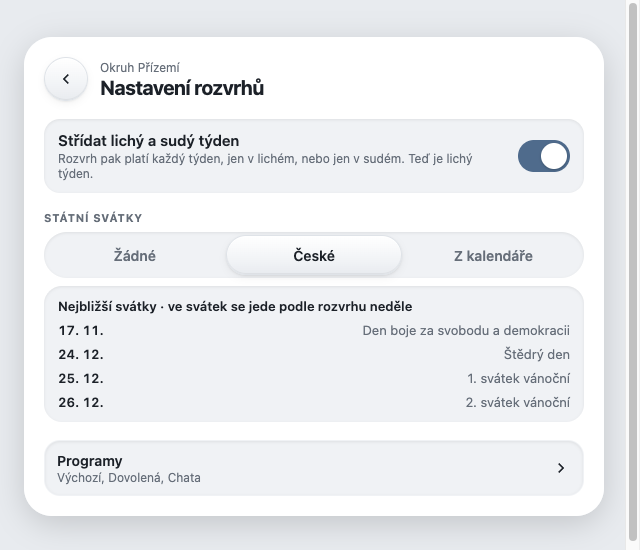
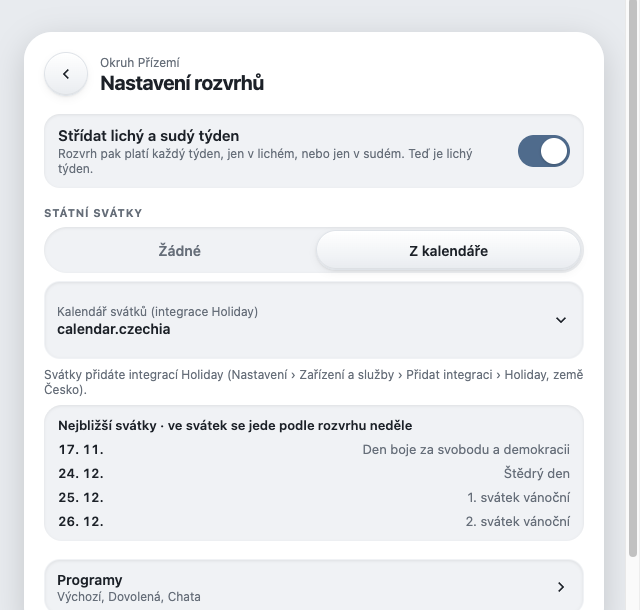
heating-schedule-card: holidays only from the Holiday calendar (v0.2.1) (#8)
* heating-schedule-card: holidays only from the Holiday calendar (v0.2.1)

Claude-Session: https://claude.ai/code/session_01RVUxo8sn9nGTvcQLdZcLhj

* heating-schedule-card: review fixes (one default-calendar write, ordered writes, active tab, memo)

Claude-Session: https://claude.ai/code/session_01RVUxo8sn9nGTvcQLdZcLhj

---------

diff --git a/dist/heating-schedule-card.js b/dist/heating-schedule-card.js
@@ -1,6 +1,8 @@
 // heating-schedule-card: weekly heating schedules of climate valves, stored by scheduler-component.
 // One plain ES module: no build step, no dependencies. Pure functions are exported for `node --test`.
-const VERSION = '0.2.0';
+const VERSION = '0.2.1';
+const isCal = (v) => typeof v === 'string' && v.startsWith('calendar.');
+const CZ_CALENDAR = 'calendar.czechia'; // the calendar the Holiday integration creates for Czechia
 
 export const DAYS = ['mon', 'tue', 'wed', 'thu', 'fri', 'sat', 'sun'];
 const DAY_LABELS = { mon: 'Po', tue: 'Út', wed: 'St', thu: 'Čt', fri: 'Pá', sat: 'So', sun: 'Ne' };
@@ -46,7 +48,7 @@ export function tempColor(t, dark = false) {
   return '#' + a.map((v, k) => Math.round(v + (b[k] - v) * f).toString(16).toUpperCase().padStart(2, '0')).join('');
 }
 
-// ---------- weeks and holidays (the same rules as heating's `heating_week_parity`, `heating_cz_holidays`) ----------
+// ---------- weeks and holidays (the same rules as heating's `heating_week_parity`, `heating_holidays`) ----------
 
 /**
  * 'odd' | 'even' week of `date`: a strict every-7-days alternation counted from Monday 2025-12-29 (= odd), exactly as
@@ -65,29 +67,11 @@ export function isoWeek(date) {
   return 1 + Math.round(((d - jan4) / 864e5 - 3 + ((jan4.getUTCDay() + 6) % 7)) / 7);
 }
 
-const CZ_FIXED = [['01-01', 'Den obnovy samostatného českého státu'], ['05-01', 'Svátek práce'], ['05-08', 'Den vítězství'],
-  ['07-05', 'Den slovanských věrozvěstů Cyrila a Metoděje'], ['07-06', 'Den upálení mistra Jana Husa'], ['09-28', 'Den české státnosti'],
-  ['10-28', 'Den vzniku samostatného československého státu'], ['11-17', 'Den boje za svobodu a demokracii'], ['12-24', 'Štědrý den'],
-  ['12-25', '1. svátek vánoční'], ['12-26', '2. svátek vánoční']];
-
-/** Czech public holidays of `year` -> [{date: 'YYYY-MM-DD', name}] by date: the list of heating's `heating_cz_holidays`. */
-export function czechHolidays(year) {
-  const a = year % 19, b = Math.floor(year / 100), c = year % 100, d = Math.floor(b / 4), e = b % 4, f = Math.floor((b + 8) / 25);
-  const g = Math.floor((b - f + 1) / 3), h = (19 * a + b - d - g + 15) % 30, i = Math.floor(c / 4), k = c % 4;
-  const l = (32 + 2 * e + 2 * i - h - k) % 7, m = Math.floor((a + 11 * h + 22 * l) / 451);
-  const month = Math.floor((h + l - 7 * m + 114) / 31), day = ((h + l - 7 * m + 114) % 31) + 1; // Easter Sunday
-  const easter = (off) => ymd(new Date(year, month - 1, day + off));
-  return [{ date: easter(-2), name: 'Velký pátek' }, { date: easter(1), name: 'Velikonoční pondělí' },
-    ...CZ_FIXED.map(([md, name]) => ({ date: `${year}-${md}`, name }))].sort((x, y) => (x.date < y.date ? -1 : 1));
-}
-
-/** The circuit's public holidays as a Set of 'YYYY-MM-DD' (heating's `heating_holidays`): `cz` built in (last, this and next year), `calendar` = the imported dates. */
-export function holidayDates(states, id, now = new Date()) {
-  const mode = states?.[`input_select.heating_holidays_${id}`]?.state;
-  if (mode === 'cz') return new Set([-1, 0, 1].flatMap((o) => czechHolidays(now.getFullYear() + o)).map((h) => h.date));
-  if (mode !== 'calendar') return new Set();
-  const dates = states?.[`sensor.heating_programs_${id}`]?.attributes?.holiday_dates;
-  return new Set((Array.isArray(dates) ? dates : []).filter((d) => typeof d === 'string' && /^\d{4}-\d\d-\d\d$/.test(d)));
+/** The circuit's public holidays as a Set of 'YYYY-MM-DD' (heating's `heating_holidays`): only mode `calendar`, the dates of `sensor.heating_programs_<circuit>` attribute `holidays` ([{date, name}]). */
+export function holidayDates(states, id) {
+  if (states?.[`input_select.heating_holidays_${id}`]?.state !== 'calendar') return new Set();
+  const list = states?.[`sensor.heating_programs_${id}`]?.attributes?.holidays;
+  return new Set((Array.isArray(list) ? list : []).map((h) => h?.date).filter((d) => typeof d === 'string' && /^\d{4}-\d\d-\d\d$/.test(d)));
 }
 
 /** Another schedule's week tag overlaps this one: no tag (every week) overlaps both, `odd` and `even` never. */
@@ -813,7 +797,6 @@ class HeatingScheduleCard extends (globalThis.HTMLElement ?? class {}) {
     this._seq = 0;
     this._view = 'week'; // 'week' | 'picker' | 'editor' | 'copy' | 'programs' | 'settings'
     this._pg = null; // programs view state while view is 'programs'
-    this._calNames = new Map(); // calendar entity -> {date: event title}, fetched best effort for the holiday list
     this._copy = null; // copy view state while view is 'copy'
     this._ed = null; // editor state while view is 'editor'
     this._pick = null; // valve picker state while view is 'picker'
@@ -981,13 +964,13 @@ class HeatingScheduleCard extends (globalThis.HTMLElement ?? class {}) {
   _circuit() { return this._cfg.circuits.find((c) => c.id === this._cfg.valveCircuit[this._valve]); }
 
   /** The holidays the heating rules use for this circuit: `{holidays: Set}`. */
-  _ctx(circuit = this._circuit(), now = new Date()) {
-    // rebuilt only when the circuit, the mode, the year or the imported dates (by reference) change, not on every render
-    const st = this._hass?.states, mode = st?.[`input_select.heating_holidays_${circuit.id}`]?.state, dates = st?.[`sensor.heating_programs_${circuit.id}`]?.attributes?.holiday_dates;
-    const m = this._holMemo?.get(circuit.id), year = now.getFullYear();
-    if (m && m.mode === mode && m.year === year && m.dates === dates) return { holidays: m.set };
-    const set = holidayDates(st, circuit.id, now);
-    (this._holMemo ??= new Map()).set(circuit.id, { mode, year, dates, set });
+  _ctx(circuit = this._circuit()) {
+    // rebuilt only when the circuit, the mode or the holidays (by reference) change, not on every render
+    const st = this._hass?.states, mode = st?.[`input_select.heating_holidays_${circuit.id}`]?.state, dates = st?.[`sensor.heating_programs_${circuit.id}`]?.attributes?.holidays;
+    const m = this._holMemo?.get(circuit.id);
+    if (m && m.mode === mode && m.dates === dates) return { holidays: m.set };
+    const set = holidayDates(st, circuit.id);
+    (this._holMemo ??= new Map()).set(circuit.id, { mode, dates, set });
     return { holidays: set };
   }
 
@@ -1011,7 +994,7 @@ class HeatingScheduleCard extends (globalThis.HTMLElement ?? class {}) {
       s(`sensor.heating_applying_${id}`), a(`sensor.heating_applying_${id}`, 'left'),
       a(`sensor.heating_schedule_${id}`, 'targets'), a(`sensor.heating_schedule_${id}`, 'holidays_next'),
       s(`input_boolean.heating_week_alternation_${id}`), s(`input_select.heating_holidays_${id}`), s(`input_text.heating_holiday_calendar_${id}`),
-      a(`sensor.heating_programs_${id}`, 'programs'), a(`sensor.heating_programs_${id}`, 'holiday_dates'), a(`sensor.heating_programs_${id}`, 'holiday_error'),
+      a(`sensor.heating_programs_${id}`, 'programs'), a(`sensor.heating_programs_${id}`, 'holidays'), a(`sensor.heating_programs_${id}`, 'holiday_error'),
       this._view === 'settings' ? Object.keys(st).filter((e) => e.startsWith('calendar.')) : null,
     ]);
   }
@@ -1032,7 +1015,7 @@ class HeatingScheduleCard extends (globalThis.HTMLElement ?? class {}) {
       const ev = new CustomEvent('hsc-edit', { bubbles: true, composed: true, cancelable: true, detail: { valve: this._valve, program: this._prog, schedule: id ? this._schedules.find((s) => s.id === id) : null } });
       if (this.dispatchEvent(ev)) this._onEdit(ev);
     } else if (a === 'copyOpen') this._announceCopy({ valve: this._valve, program: this._prog, schedule: null });
-    else if (a === 'cog') { this._view = 'settings'; this._fetchCalNames(); this._render(true); }
+    else if (a === 'cog') { this._view = 'settings'; this._render(true); }
     else if (a === 'addprog') this._openPrograms('week');
     else if (a.startsWith('pg-')) this._progAction(a, el.dataset.k);
     else if (a.startsWith('st-')) this._settingsAction(a, el.dataset.k);
@@ -1613,50 +1596,41 @@ class HeatingScheduleCard extends (globalThis.HTMLElement ?? class {}) {
 
   // ---------- settings ----------
 
-  /** Titles of a calendar's events by date (calendar.get_events), best effort: a failure leaves the holiday names blank. */
-  async _fetchCalNames(entity) {
-    const c = this._circuit(), st = this._hass?.states ?? {};
-    const ent = entity ?? st[`input_text.heating_holiday_calendar_${c?.id}`]?.state;
-    if (!c || typeof ent !== 'string' || !ent.startsWith('calendar.') || this._calNames.has(ent)) return;
-    this._calNames.set(ent, {});
-    try {
-      const from = new Date(), to = new Date(from.getFullYear() + 1, from.getMonth(), from.getDate());
-      const r = await this._hass.callWS({ type: 'call_service', domain: 'calendar', service: 'get_events', return_response: true,
-        service_data: { entity_id: ent, start_date_time: `${ymd(from)} 00:00:00`, end_date_time: `${ymd(to)} 00:00:00` } });
-      const names = {};
-      for (const ev of r?.response?.[ent]?.events ?? []) if (ev.summary) names[String(ev.start).slice(0, 10)] ??= ev.summary;
-      this._calNames.set(ent, names);
-      if (this._view === 'settings') this._render();
-    } catch { this._calNames.delete(ent); }
-  }
-
   _settingsAction(a, k) {
     const c = this._circuit(), id = c.id;
     const call = (domain, service, data) => Promise.resolve().then(() => this._hass.callService(domain, service, data)).catch((err) => this._fail(err));
     if (a === 'st-back') { this._view = 'week'; this._render(true); }
     else if (a === 'st-prog') this._openPrograms('settings');
     else if (a === 'st-alt') call('input_boolean', 'toggle', { entity_id: `input_boolean.heating_week_alternation_${id}` });
-    else if (a === 'st-hol') call('input_select', 'select_option', { entity_id: `input_select.heating_holidays_${id}`, option: k }).then(() => k === 'calendar' && this._fetchCalNames());
-    else if (a === 'st-cal') call('input_text', 'set_value', { entity_id: `input_text.heating_holiday_calendar_${id}`, value: k }).then(() => this._fetchCalNames(k));
+    else if (a === 'st-hol') {
+      const st = this._hass.states, calEnt = `input_text.heating_holiday_calendar_${id}`, cur = st[calEnt]?.state;
+      if (k === (st[`input_select.heating_holidays_${id}`]?.state === 'calendar' ? 'calendar' : 'none')) return; // the active tab
+      const select = () => call('input_select', 'select_option', { entity_id: `input_select.heating_holidays_${id}`, option: k });
+      if (k !== 'calendar') return select();
+      if (!st[calEnt]) return this._fail(new Error('Heating je starší, aktualizujte ho'));
+      // the only place that writes the default: nothing valid stored and the Holiday integration's Czechia calendar exists
+      if (isCal(cur) || !st[CZ_CALENDAR]) return select();
+      Promise.resolve().then(() => this._hass.callService('input_text', 'set_value', { entity_id: calEnt, value: CZ_CALENDAR })).then(select).catch((err) => this._fail(err));
+    }
+    else if (a === 'st-cal') call('input_text', 'set_value', { entity_id: `input_text.heating_holiday_calendar_${id}`, value: k });
   }
 
   _settingsHtml(circuit, errHtml) {
     const id = circuit.id, st = this._hass?.states ?? {}, att = (e, a) => st[e]?.attributes?.[a];
-    const alt = this._alternates(circuit), mode = st[`input_select.heating_holidays_${id}`]?.state ?? 'none';
-    const cal = st[`input_text.heating_holiday_calendar_${id}`]?.state ?? '';
+    const alt = this._alternates(circuit), mode = st[`input_select.heating_holidays_${id}`]?.state === 'calendar' ? 'calendar' : 'none'; // anything else shows as Žádné
+    const stored = st[`input_text.heating_holiday_calendar_${id}`]?.state, cal = isCal(stored) ? stored : ''; // only the stored value is shown
     const parity = weekParity(new Date());
     const calendars = Object.keys(st).filter((e) => e.startsWith('calendar.'));
     if (cal && !calendars.includes(cal)) calendars.unshift(cal);
-    const names = this._calNames.get(cal) ?? {};
     const next = (Array.isArray(att(`sensor.heating_schedule_${id}`, 'holidays_next')) ? att(`sensor.heating_schedule_${id}`, 'holidays_next') : []);
     const fmt = (iso) => `${Number(String(iso).slice(8, 10))}. ${Number(String(iso).slice(5, 7))}.`;
     const tab = (k, label) => `<button type="button" class="tab" data-a="st-hol" data-k="${k}" aria-pressed="${mode === k}" ${st[`input_select.heating_holidays_${id}`] ? '' : 'disabled'}>${label}</button>`;
     const err = mode === 'calendar' ? att(`sensor.heating_programs_${id}`, 'holiday_error') : null;
-    const picker = mode === 'calendar' ? `<label class="tile sel"><span class="tx"><span class="sec">Kalendář svátků (integrace Holiday)</span><b>${esc(cal || 'Vyber kalendář')}</b></span>${icon('chevronDown')}
-        <select data-a="st-cal" aria-label="Kalendář svátků"><option value=""${cal ? '' : ' selected'}>Vyber kalendář</option>${calendars.map((e) => `<option value="${esc(e)}"${e === cal ? ' selected' : ''}>${esc(e)}</option>`).join('')}</select></label>
-        <span class="sec">Kalendář přidáte integrací Holiday (Nastavení › Zařízení a služby › Přidat integraci › Holiday).</span>${err ? `<div class="err">Kalendář se nenačetl: ${esc(err)}</div>` : ''}` : '';
+    const picker = mode === 'calendar' ? `<label class="tile sel"><span class="tx"><span class="sec">Kalendář svátků (integrace Holiday)</span><b>${esc(cal || 'Vyberte kalendář')}</b></span>${icon('chevronDown')}
+        <select data-a="st-cal" aria-label="Kalendář svátků"><option value=""${cal ? '' : ' selected'}>Vyberte kalendář</option>${calendars.map((e) => `<option value="${esc(e)}"${e === cal ? ' selected' : ''}>${esc(e)}</option>`).join('')}</select></label>
+        <span class="sec">Svátky přidáte integrací Holiday (Nastavení › Zařízení a služby › Přidat integraci › Holiday, země Česko).</span>${err ? `<div class="err">Kalendář se nenačetl: ${esc(err)}</div>` : ''}` : '';
     const hols = mode === 'none' ? '' : `<div class="hols"><b>Nejbližší svátky · ve svátek se jede podle rozvrhu neděle</b>${next.length
-      ? next.map((h) => `<div class="h"><span>${esc(fmt(h.date))}</span><span>${esc(h.name ?? names[h.date] ?? '')}</span></div>`).join('') : '<span class="sec">Žádné nadcházející svátky.</span>'}</div>`;
+      ? next.map((h) => `<div class="h"><span>${esc(fmt(h.date))}</span><span>${esc(h.name ?? '')}</span></div>`).join('') : '<span class="sec">Žádné nadcházející svátky.</span>'}</div>`;
     const progs = this._progList(circuit);
     return `<div class="head">
         <button type="button" class="round" data-a="st-back" data-k="" aria-label="Zpět">${icon('chevronLeft')}</button>
@@ -1666,7 +1640,7 @@ class HeatingScheduleCard extends (globalThis.HTMLElement ?? class {}) {
       <div class="swrow"><div class="tx"><b>Střídat lichý a sudý týden</b><span class="sec">Rozvrh pak platí každý týden, jen v lichém, nebo jen v sudém. Teď je ${WEEK_LABEL[parity]} týden.</span></div>
         <button type="button" class="switch" role="switch" aria-checked="${alt}" aria-label="Střídat lichý a sudý týden" data-a="st-alt" data-k="" ${st[`input_boolean.heating_week_alternation_${id}`] ? '' : 'disabled'}></button></div>
       <div class="col"><span class="label">Státní svátky</span>
-        <div class="tabs">${tab('none', 'Žádné')}${tab('cz', 'České')}${tab('calendar', 'Z kalendáře')}</div>
+        <div class="tabs">${tab('none', 'Žádné')}${tab('calendar', 'Z kalendáře')}</div>
         ${picker}${hols}</div>
       <button type="button" class="tile link" data-a="st-prog" data-k=""><span class="tx"><b>Programy</b><span class="sec">${esc(['Výchozí', ...progs.map((p) => p.name)].join(', '))}</span></span>${icon('chevronRight')}</button>`;
   }
@@ -1706,7 +1680,7 @@ class HeatingScheduleCard extends (globalThis.HTMLElement ?? class {}) {
     const prog = this._prog, progName = list.find((p) => p.id === prog).name;
     const title = states[valve]?.attributes?.friendly_name || valve;
 
-    const ctx = this._ctx(circuit, now), alt = this._alternates(circuit), parity = weekParity(now);
+    const ctx = this._ctx(circuit), alt = this._alternates(circuit), parity = weekParity(now);
     const ns = nowState({ states, circuit: circuit.id, valve, schedules: this._schedules, program: running, now, nValves: circuit.valves.length, ctx });
     const toneCss = ns.tone == null ? '' : ns.tone === 'cold' ? 'var(--c-cold)' : ns.tone === 'warm' ? 'var(--c-warm)' : ns.tone === 'accent' ? 'var(--c-accent)' : tempColor(ns.tone, dark);
 

diff --git a/tests/dom.html b/tests/dom.html
@@ -720,13 +720,13 @@
     const mkHA = (list, extraStates = {}, progList = [{ id: 'odd', name: 'Lichý týden' }, { id: 'vacation', name: 'Dovolená' }]) => {
       const A = { items: list, log: [], svc: [], failRemove: 0, removes: 0, states: {
         ...hass.states, [K]: { state: 'heat', attributes: { friendly_name: 'Kuchyň', temperature: 21 } },
-        [ALT]: { state: 'on', attributes: {} }, [HOL]: { state: 'cz', attributes: {} }, [CAL]: { state: '', attributes: {} },
+        [ALT]: { state: 'on', attributes: {} }, [HOL]: { state: 'none', attributes: {} }, [CAL]: { state: '', attributes: {} },
         ...progSensors(progList),
         ...extraStates,
       }, failScript: false, noScript: false };
       A.hass = {
         states: A.states, themes: {},
-        callWS: async (m) => (m.type === 'call_service' ? { response: { 'calendar.cz': { events: [{ start: '2026-12-24', summary: 'Štědrý den' }] } } } : A.items),
+        callWS: async (m) => A.items,
         callApi: async (m, path, body) => {
           A.log.push(path.split('/')[1] + (body.schedule_id ? ':' + body.schedule_id : ''));
           if (path === 'scheduler/add') A.items = [...A.items, { ...mkItem('n' + A.items.length + A.log.length, body.weekdays, body.tags), timeslots: body.timeslots }];
@@ -770,7 +770,7 @@
 
     // a holiday today: the now tile says so (a calendar holiday, today's date)
     A = mkHA([mkItem('hs', ['sun'], ['program:auto'], 17), mkItem('hw', DAYS7.filter((d) => d !== 'sun'), ['program:auto'], 21)],
-      { [HOL]: { state: 'calendar', attributes: {} }, [HP]: { state: '0', attributes: { programs: [], holiday_dates: [M.ymd(now0)] } } });
+      { [HOL]: { state: 'calendar', attributes: {} }, [HP]: { state: '0', attributes: { programs: [], holidays: [{ date: M.ymd(now0), name: 'x' }] } } });
     cw = await mkCard(A.hass, cfgK);
     r.v2Holiday = text(cw, '.now .tx .sec') === 'Svátek · podle neděle' && text(cw, '.now .big').startsWith('17');
     cw.remove();
@@ -851,7 +851,7 @@
 
     // settings: the alternation switch, holiday tabs, the calendar picker, the next holidays
     A = mkHA([mkItem('wd', DAYS7, ['program:auto'], 20)], {
-      [HOL]: { state: 'none', attributes: {} }, 'calendar.cz': { state: 'off', attributes: {} },
+      [HOL]: { state: 'none', attributes: {} }, 'calendar.czechia': { state: 'off', attributes: {} },
       [`sensor.heating_schedule_${CID}`]: { state: 'auto', attributes: { targets: { [K]: 20 }, holidays_next: [{ date: '2026-12-24', name: 'Štědrý den' }, { date: '2026-12-25', name: null }] } },
     });
     cw = await mkCard(A.hass, cfgK);
@@ -864,25 +864,60 @@
     await tick(50);
     r.v2Alt = JSON.stringify(A.svc) === JSON.stringify([{ domain: 'input_boolean', service: 'toggle', data: { entity_id: ALT } }]);
     A.svc.length = 0;
-    click(cw, '.tab[data-k="cz"]');
-    await tick(50);
-    cw.hass = { ...A.hass };
-    r.v2Hol = JSON.stringify(A.svc) === JSON.stringify([{ domain: 'input_select', service: 'select_option', data: { entity_id: HOL, option: 'cz' } }])
-      && sr3.querySelector('.tab[aria-pressed="true"]').textContent === 'České'
-      && [...sr3.querySelectorAll('.hols .h')].map((x) => x.textContent).join('|') === '24. 12.Štědrý den|25. 12.' && sr3.textContent.includes('ve svátek se jede podle rozvrhu neděle');
-    A.svc.length = 0;
-    A.states['sensor.heating_schedule_' + CID] = { state: 'auto', attributes: { targets: { [K]: 20 }, holidays_next: [{ date: '2026-12-24', name: null }, { date: '2026-12-25', name: null }] } };
+    r.v2TwoTabs = [...sr3.querySelectorAll('.tab')].map((x) => x.textContent).join('|') === 'Žádné|Z kalendáře';
     click(cw, '.tab[data-k="calendar"]');
     await tick(100);
+    A.states[HOL] = { state: 'calendar', attributes: {} }; // what the select does
+    A.states[CAL] = { state: 'calendar.czechia', attributes: {} };
+    A.states[HP] = { ...A.states[HP], attributes: { ...A.states[HP].attributes, holidays: [{ date: '2026-12-24', name: 'Štědrý den' }, { date: '2026-12-25', name: '1. svátek vánoční' }] } };
+    A.states['sensor.heating_schedule_' + CID] = { state: 'auto', attributes: { targets: { [K]: 20 }, holidays_next: [{ date: '2026-12-24', name: 'Štědrý den' }, { date: '2026-12-25', name: '1. svátek vánoční' }] } };
     cw.hass = { ...A.hass };
+    await tick(50);
+    // Z kalendáře with nothing stored: calendar.czechia is written first, then the mode
+    r.v2Hol = JSON.stringify(A.svc.map((x) => [x.domain, x.service, x.data.entity_id, x.data.option ?? x.data.value])) === JSON.stringify([['input_text', 'set_value', CAL, 'calendar.czechia'], ['input_select', 'select_option', HOL, 'calendar']])
+      && sr3.querySelector('.tab[aria-pressed="true"]').textContent === 'Z kalendáře'
+      && [...sr3.querySelectorAll('.hols .h')].map((x) => x.textContent).join('|') === '24. 12.Štědrý den|25. 12.1. svátek vánoční' && sr3.textContent.includes('ve svátek se jede podle rozvrhu neděle');
+    A.svc.length = 0;
     const calSel = sr3.querySelector('select[data-a="st-cal"]');
-    r.v2CalPicker = !!calSel && [...calSel.options].map((o) => o.value).join() === ',calendar.cz' && sr3.textContent.includes('Kalendář přidáte integrací Holiday');
-    calSel.value = 'calendar.cz';
-    calSel.dispatchEvent(new Event('change', { bubbles: true }));
-    await tick(150);
+    r.v2CalPicker = !!calSel && [...calSel.options].map((o) => o.value).join() === ',calendar.czechia' && calSel.value === 'calendar.czechia'
+      && sr3.textContent.includes('Svátky přidáte integrací Holiday') && sr3.textContent.includes('země Česko');
+    A.states[`sensor.heating_programs_${CID}`].attributes.holiday_error = 'boom';
     cw.hass = { ...A.hass };
-    r.v2Cal = A.svc.some((x) => x.domain === 'input_text' && x.data.entity_id === CAL && x.data.value === 'calendar.cz')
-      && [...sr3.querySelectorAll('.hols .h')].map((x) => x.textContent).join('|') === '24. 12.Štědrý den|25. 12.'; // 25. 12. has no event: blank
+    await tick(50);
+    r.v2CalErr = sr3.textContent.includes('Kalendář se nenačetl: boom');
+    A.states[`sensor.heating_programs_${CID}`].attributes.holiday_error = null;
+    // the active tab does nothing; an empty stored calendar shows the placeholder, not a default
+    A.svc.length = 0;
+    click(cw, '.tab[data-k="calendar"]');
+    await tick(50);
+    const act = A.svc.length === 0;
+    A.states[CAL] = { state: '', attributes: {} };
+    cw.hass = { ...A.hass };
+    await tick(50);
+    const sel0 = sr3.querySelector('select[data-a="st-cal"]');
+    r.v2ActiveTab = act && !!sel0 && sel0.value === '' && sr3.querySelector('.sel b').textContent === 'Vyberte kalendář';
+    // a failing calendar write leaves the mode alone
+    A.states[HOL] = { state: 'none', attributes: {} };
+    const okSvc = A.hass.callService;
+    A.hass.callService = async (d, sv, data) => { if (d === 'input_text') { A.svc.push({ domain: d, service: sv, data }); throw new Error('no write'); } return okSvc(d, sv, data); };
+    cw.hass = { ...A.hass };
+    A.svc.length = 0;
+    click(cw, '.tab[data-k="calendar"]');
+    await tick(50);
+    r.v2CalWriteFails = A.svc.length === 1 && A.svc[0].domain === 'input_text' && A.states[HOL].state === 'none' && sr3.textContent.includes('no write');
+    A.hass.callService = okSvc;
+    // no input_text entity (old heating): nothing is written, the card says so
+    delete A.states[CAL];
+    cw.hass = { ...A.hass };
+    A.svc.length = 0;
+    click(cw, '.tab[data-k="calendar"]');
+    await tick(50);
+    r.v2OldHeating = A.svc.length === 0 && sr3.textContent.includes('Heating je starší, aktualizujte ho');
+    A.states[CAL] = { state: '', attributes: {} };
+    A.states[HOL] = { state: 'cz', attributes: {} }; // a stored value outside none / calendar shows as Žádné
+    cw.hass = { ...A.hass };
+    await tick(50);
+    r.v2StaleCz = sr3.querySelector('.tab[aria-pressed="true"]').textContent === 'Žádné' && !sr3.querySelector('.hols') && !sr3.querySelector('.tab[data-k="cz"]');
     click(cw, '[data-a="st-back"]');
     r.v2SettingsBack = !!cw.shadowRoot.querySelector('.now');
     click(cw, '[data-a="cog"]');

diff --git a/README.md b/README.md
@@ -9,7 +9,7 @@ A Home Assistant card for the weekly heating schedules of climate valves, writte
 - **Copy to other valves**: a whole valve or selected schedules, Nahradit / Jen doplnit, with a per-valve preview.
 - **Programs**: a dashed `+ Program` chip and a *Programy* view (also from the settings): add, rename and delete programs of the circuit.
 - **Odd / even weeks**: a schedule can apply every week, only in odd weeks, or only in even weeks (tabs *Každý týden / Lichý / Sudý* in the editor while the alternation is on); the week view shows the current week and dims the rows of the other one. Day presets *Pracovní dny / Víkend / Každý den* in the editor.
-- **Public holidays**: a holiday runs by the Sunday schedule (Czech holidays built in, or any calendar of HA's Holiday integration); the settings list the next ones.
+- **Public holidays**: a holiday runs by the Sunday schedule (from a calendar of HA's Holiday integration, e.g. Czechia); the settings list the next ones.
 
 ![Week view](docs/week.png)
 ![Editor](docs/editor.png)
@@ -21,7 +21,7 @@ A Home Assistant card for the weekly heating schedules of climate valves, writte
 
 Not in HACS. Copy [`dist/heating-schedule-card.js`](dist/heating-schedule-card.js) to `config/www/`, then add a dashboard resource:
 
-Settings → Dashboards → ⋮ → Resources → Add resource → URL `/local/heating-schedule-card.js?v=0.2.0`, type **JavaScript module** → reload the browser. Change `?v=` after copying a new version.
+Settings → Dashboards → ⋮ → Resources → Add resource → URL `/local/heating-schedule-card.js?v=0.2.1`, type **JavaScript module** → reload the browser. Change `?v=` after copying a new version.
 
 ## Configuration
 
@@ -45,23 +45,23 @@ The card only stores schedules in scheduler-component; it never controls a valve
 - **Programs** come from the heating feature's `programs` parameter (`sensor.heating_program_<circuit>`: `programs` and `program_names`); Výchozí (`auto`) is always first. The chips show them, a schedule's program is its tag `program:<id>` (none = `auto`).
 - **Fallback**: a program with no schedule for a weekday uses the Výchozí schedule of that day, per day (same rules as the heating feature's `heating_slot_temp`). A program without schedules shows "používá výchozí rozvrh" and can be given its own copy of the Výchozí schedules.
 - **Weeks**: the tag `week:odd` / `week:even` (none = every week) limits a schedule to odd / even weeks. The weeks alternate strictly every 7 days, counted from Monday 2025-12-29 = odd (the heating's `heating_week_parity`; never ISO week % 2, because 2026 has ISO week 53), the badge shows that parity with the ISO number. The per-day fallback and the carry-over from the previous day use the week of the day they look at. Odd and even schedules of the same weekdays never conflict; a schedule without a tag conflicts with both. A copy keeps the tag.
-- **Holidays**: with *Státní svátky* set to *České* (built in, `czechHolidays`) or *Z kalendáře* (the dates the heating imported into `sensor.heating_programs_<circuit>`), a holiday counts as Sunday, as in the heating's `heating_slot_temp`. The now tile says *Svátek · podle neděle*.
+- **Holidays**: with *Státní svátky* set to *Z kalendáře* (a calendar of the Holiday integration, `calendar.czechia` preselected; the holidays the heating imported into `sensor.heating_programs_<circuit>` attribute `holidays`, `[{date, name}]`), a holiday counts as Sunday, as in the heating's `heating_slot_temp`. The now tile says *Svátek · podle neděle*.
 - **Pause**: the tag `paused` (the "Aktivní" toggle) removes a schedule from the heating without deleting it.
 - **Copy** writes new schedules for the target valves, tagged with the same program; a target valve whose circuit lacks the program is skipped.
 - A schedule the card cannot represent (not `repeat`, conditions, other actions, several valves, sun times, gaps) is shown read-only and never written.
 
 ### What the card writes besides schedules
 
-Needs heating 1.9.0 or newer (programs, weeks and holidays, #352). All helpers belong to the circuit (`<circuit>` = the heating instance):
+Needs heating 1.10.0 or newer (programs, weeks, holidays from the Holiday integration, #352, #356). All helpers belong to the circuit (`<circuit>` = the heating instance):
 
 | Action | Call |
 | --- | --- |
 | Add / rename / delete a program | `script.heating_programs_set_<circuit>` with `programs` = the whole list `[{id, name}]` without Výchozí; read back from `sensor.heating_programs_<circuit>` attribute `programs`. The id is a slug of the name (ASCII lower-case, `_`); `auto` and the name *Výchozí* are reserved, a used name or id is refused before writing. Deleting a program writes the list first (waits until both `sensor.heating_programs_<circuit>` and `sensor.heating_program_<circuit>` show it; a read-back that is late is re-checked after 5 s, not treated as a failure), then removes its schedules on the circuit's valves; a failing removal puts the removed schedules and the old list back. The running program, or a program with a read-only schedule, cannot be deleted from the card. The program lists come from `sensor.heating_program_<circuit>` everywhere; extra fields of the stored entries are kept. |
 | Střídat lichý a sudý týden | `input_boolean.toggle` on `input_boolean.heating_week_alternation_<circuit>` (it only shows the week controls; the tags always count) |
-| Státní svátky | `input_select.select_option` (`none` / `cz` / `calendar`) on `input_select.heating_holidays_<circuit>` |
-| Kalendář svátků | `input_text.set_value` on `input_text.heating_holiday_calendar_<circuit>` (a `calendar.*` entity); the holiday names of a calendar are fetched with `calendar.get_events`, best effort |
+| Státní svátky | `input_select.select_option` (`none` / `calendar`; any other stored value shows as *Žádné*) on `input_select.heating_holidays_<circuit>` |
+| Kalendář svátků | `input_text.set_value` on `input_text.heating_holiday_calendar_<circuit>` (a `calendar.*` entity; set to `calendar.czechia` when *Z kalendáře* is chosen and none is set yet) |
 
-The settings list the next holidays from `sensor.heating_schedule_<circuit>` attribute `holidays_next`.
+The settings list the next holidays from `sensor.heating_schedule_<circuit>` attribute `holidays_next` (dates and names; the card fetches nothing from the calendar itself).
 
 One scheduler-component schedule = one program's weekdays with timeslots covering 00:00-24:00, one `climate.set_temperature` action each.
 
